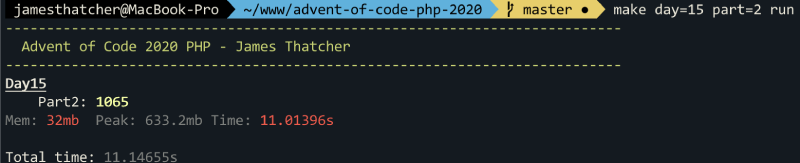
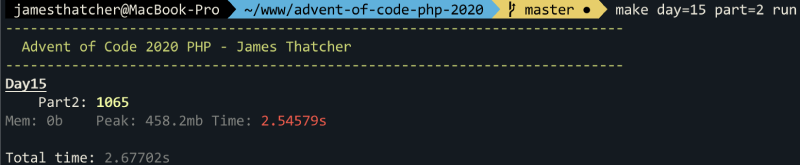
Day 15 Part 2 SplFixedArray optimisations

diff --git a/src/Day15.php b/src/Day15.php
@@ -31,59 +31,47 @@ class Day15 extends DayBehaviour implements DayInterface
      * This rules out using a single array and calculating the turns by the index. Forget the memory, the scan operations
      * required to retrieve the last 2 turns would start taking forever, even in 20 years I doubt that would be practical!
      *
-     * Instead, whenever I encounter a number, I clone an instance of SplFixedArray fixed to 2 places.
-     * This uses significantly less memory (2.8gb vs 663mb) than conventional arrays and is faster.
-     * Some number shifting is required to keep track of the last 2 turns, but you'll see below this is quite optimised.
+     * An alternative approach is as follows:
+     * Create an array the size of the number we're after. SplFixedArray is ideal for this and makes lookups quicker
+     * as the array is pre-initialised. The spoken number will never be larger than that.
+     * Keep track of each numbers' last turn only, seeding our memory with the initial numbers incremented by 1,
+     * then when we encounter a number we've seen before, we can subtract the current turn ($i) by the last seen
+     * falling back to 0 if it doesn't exist.
      *
      * @param int $max
      *
      * @return int
+     * @noinspection PhpRedundantVariableDocTypeInspection
      */
     protected function numberSpoken(int $max): int
     {
         $turns = array_map('intval', str_getcsv(trim($this->input[0])));
-        $i     = count($turns);
 
-        // keep track of ever number we've heard spoken
-        $mem = [];
-        // our seen fifo queue. We only need a record of the last 2 positions a number was seen
-        // SplFixedArray uses less memory and is faster than standard arrays
-        $seenFifo = new SplFixedArray(2);
-
-        $last = 0;
-        // add our existing turns to the log
-        foreach ($turns as $k => $t) {
-            $mem[$t]    = clone $seenFifo;
-            $mem[$t][0] = $k;
-            $last       = $t;
+        /** @var SplFixedArray<int> $mem */
+        $mem = new SplFixedArray($max);
+        // $mem = []; // the tradeoff in less memory takes 75% longer
+        $next = 0;
+        $i    = 0;
+        // add our existing turns to memory
+        foreach ($turns as $t) {
+            $mem[$t] = ++$i; // increment by 1 here so our $next calculation can be condensed to a single statement
+            $next    = $t;
         }
 
-        // start the loop
         while ($i < $max) {
-            // if we have seen the number before subtract the last two times from each other
-            // otherwise return 0 if we haven't seen the number before
-            $last = null !== $mem[$last][0] && null !== $mem[$last][1]
-                ? $mem[$last][1] - $mem[$last][0]
-                : 0;
-
-            // if the number has been seen twice before, then shift the last becomes the first
-            if (null !== ($mem[$last][1] ?? null)) { // seen twice
-                $mem[$last][0] = $mem[$last][1];
-                $mem[$last][1] = $i;
-            } elseif (null !== ($mem[$last][0] ?? null)) { // seen once
-                $mem[$last][1] = $i;
-            } else { // first time, we'll need to clone our fifo queue for this one
-                // cloning an object is significantly faster than constructing
-                $mem[$last] ??= clone $seenFifo;
-                $mem[$last][0] = $i;
-            }
-
-            ++$i;
+            $last       = $next;
+            $next       = $i - ($mem[$next] ?? $i);
+            $mem[$last] = $i++;
         }
 
-        return $last;
+        return $next;
     }
 
+    /**
+     * sloooooooooooow.
+     *
+     * @return int|string|null
+     */
     public function oldPart1(): int|string|null
     {
         $turns = array_map('intval', str_getcsv(trim($this->input[0])));

diff --git a/README.md b/README.md
@@ -25,8 +25,9 @@ My first attempt at this (part 1) was pants. I used a single array to keep track
 array index to calculate turns. Fine for calculating the 2020th but when it came to the 30 millionth… No chance! 😂
 
 After much playing around and refactoring, I was able to make some big improvements by using some lesser-known PHP 
-class types like `SplFixedArray`. I've got this solution down to just 11 seconds using a paltry 633mb of RAM on my lappy.  
-![day 15 part 2](/aoc-2020-jthatch-day15-pt2.png "AOC 2020 PHP Day 15 Part 2 in 11 secs")
+class types like `SplFixedArray`. I've got this solution down to 2.5 seconds using 458mb of RAM. (_using a standard `array`
+takes 3.7 seconds however it only uses 240mb of RAM_)
+![day 15 part 2](/aoc-2020-jthatch-day15-pt2.png "AOC 2020 PHP Day 15 Part 2 in 2.5 secs")
 
 ### Tech
 - Docker
